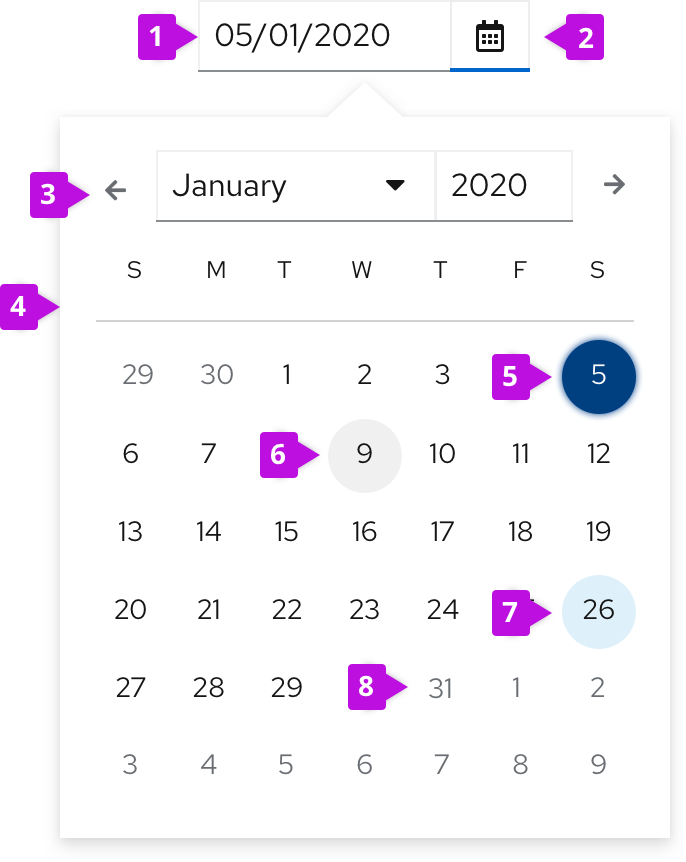
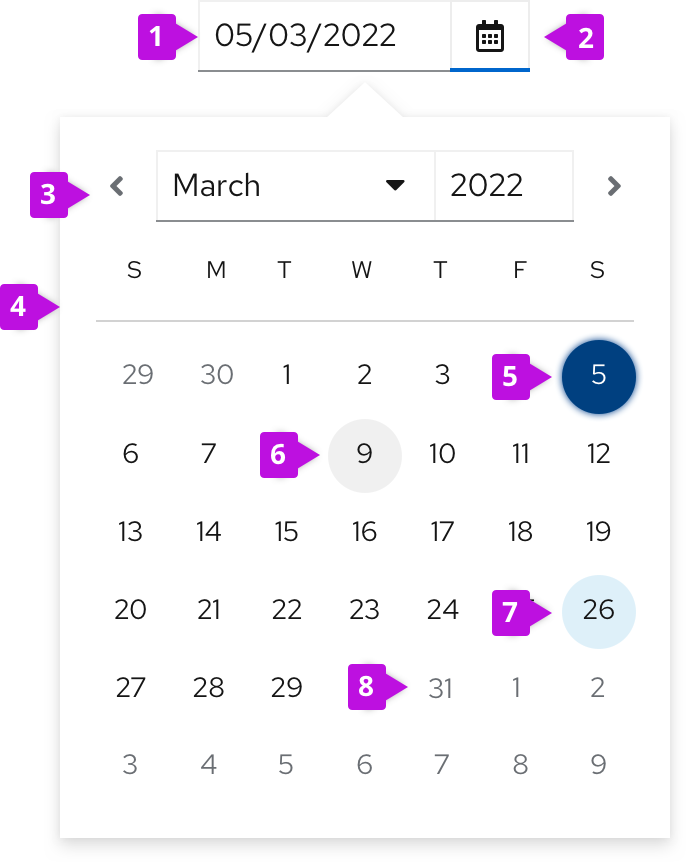
Updated datepicker and calendar images (#2983)
* Updated datepicker images

* Fixed calendar image

* Updated datepicker and calendar

diff --git a/packages/v4/src/content/design-guidelines/components/date-picker/date-picker.md b/packages/v4/src/content/design-guidelines/components/date-picker/date-picker.md
@@ -8,7 +8,7 @@ A **date picker** helps users select a specific date, time, or range of time-rel
 
 ## Elements
 
-<img src="./img/date-picker.png" alt="Date picker elements" width="382"/>
+<img src="./img/date-picker.png" alt="Date picker elements" width="343"/>
 
 1. **Date fields**: Displays a user’s selected date. Always fill the date field with a placeholder date format (MM/DD/YYYY) or a pre-selected date before users make their selection via calendar or keyboard. The date field should never be empty.
 2. **Calendar icon**: Opens a calendar upon selection.
@@ -30,7 +30,7 @@ For more guidance on writing date formats, see the [content](#date-format) secti
 ### Date range selection
 Two date pickers can be used together to specify a date range. The first one functions as a start (“from”) date and the second one functions as an end (“to”) date. By default, when a user selects a start date, the end date will automatically display as the next calendar day.
 
-<img src="./img/Date range selection.png" alt="Date range selection - elements" width="482"/>
+<img src="./img/Date range selection.png" alt="Date range selection - elements" width="442"/>
 
 1. **Selected start date**
 2. **Time range**

diff --git a/packages/v4/src/content/design-guidelines/components/calendar-month/calendar-month.md b/packages/v4/src/content/design-guidelines/components/calendar-month/calendar-month.md
@@ -8,7 +8,7 @@ A **calendar month** component allows users to select and navigate between days,
 
 ## Elements
 
-<img src="./img/Calendar.png" alt="Calendar month elements" width="382"/>
+<img src="./img/Calendar.png" alt="Calendar month elements" width="328"/>
 
 1. **Selection arrows**: allow users to navigate between months.
 2. **Selected date**
